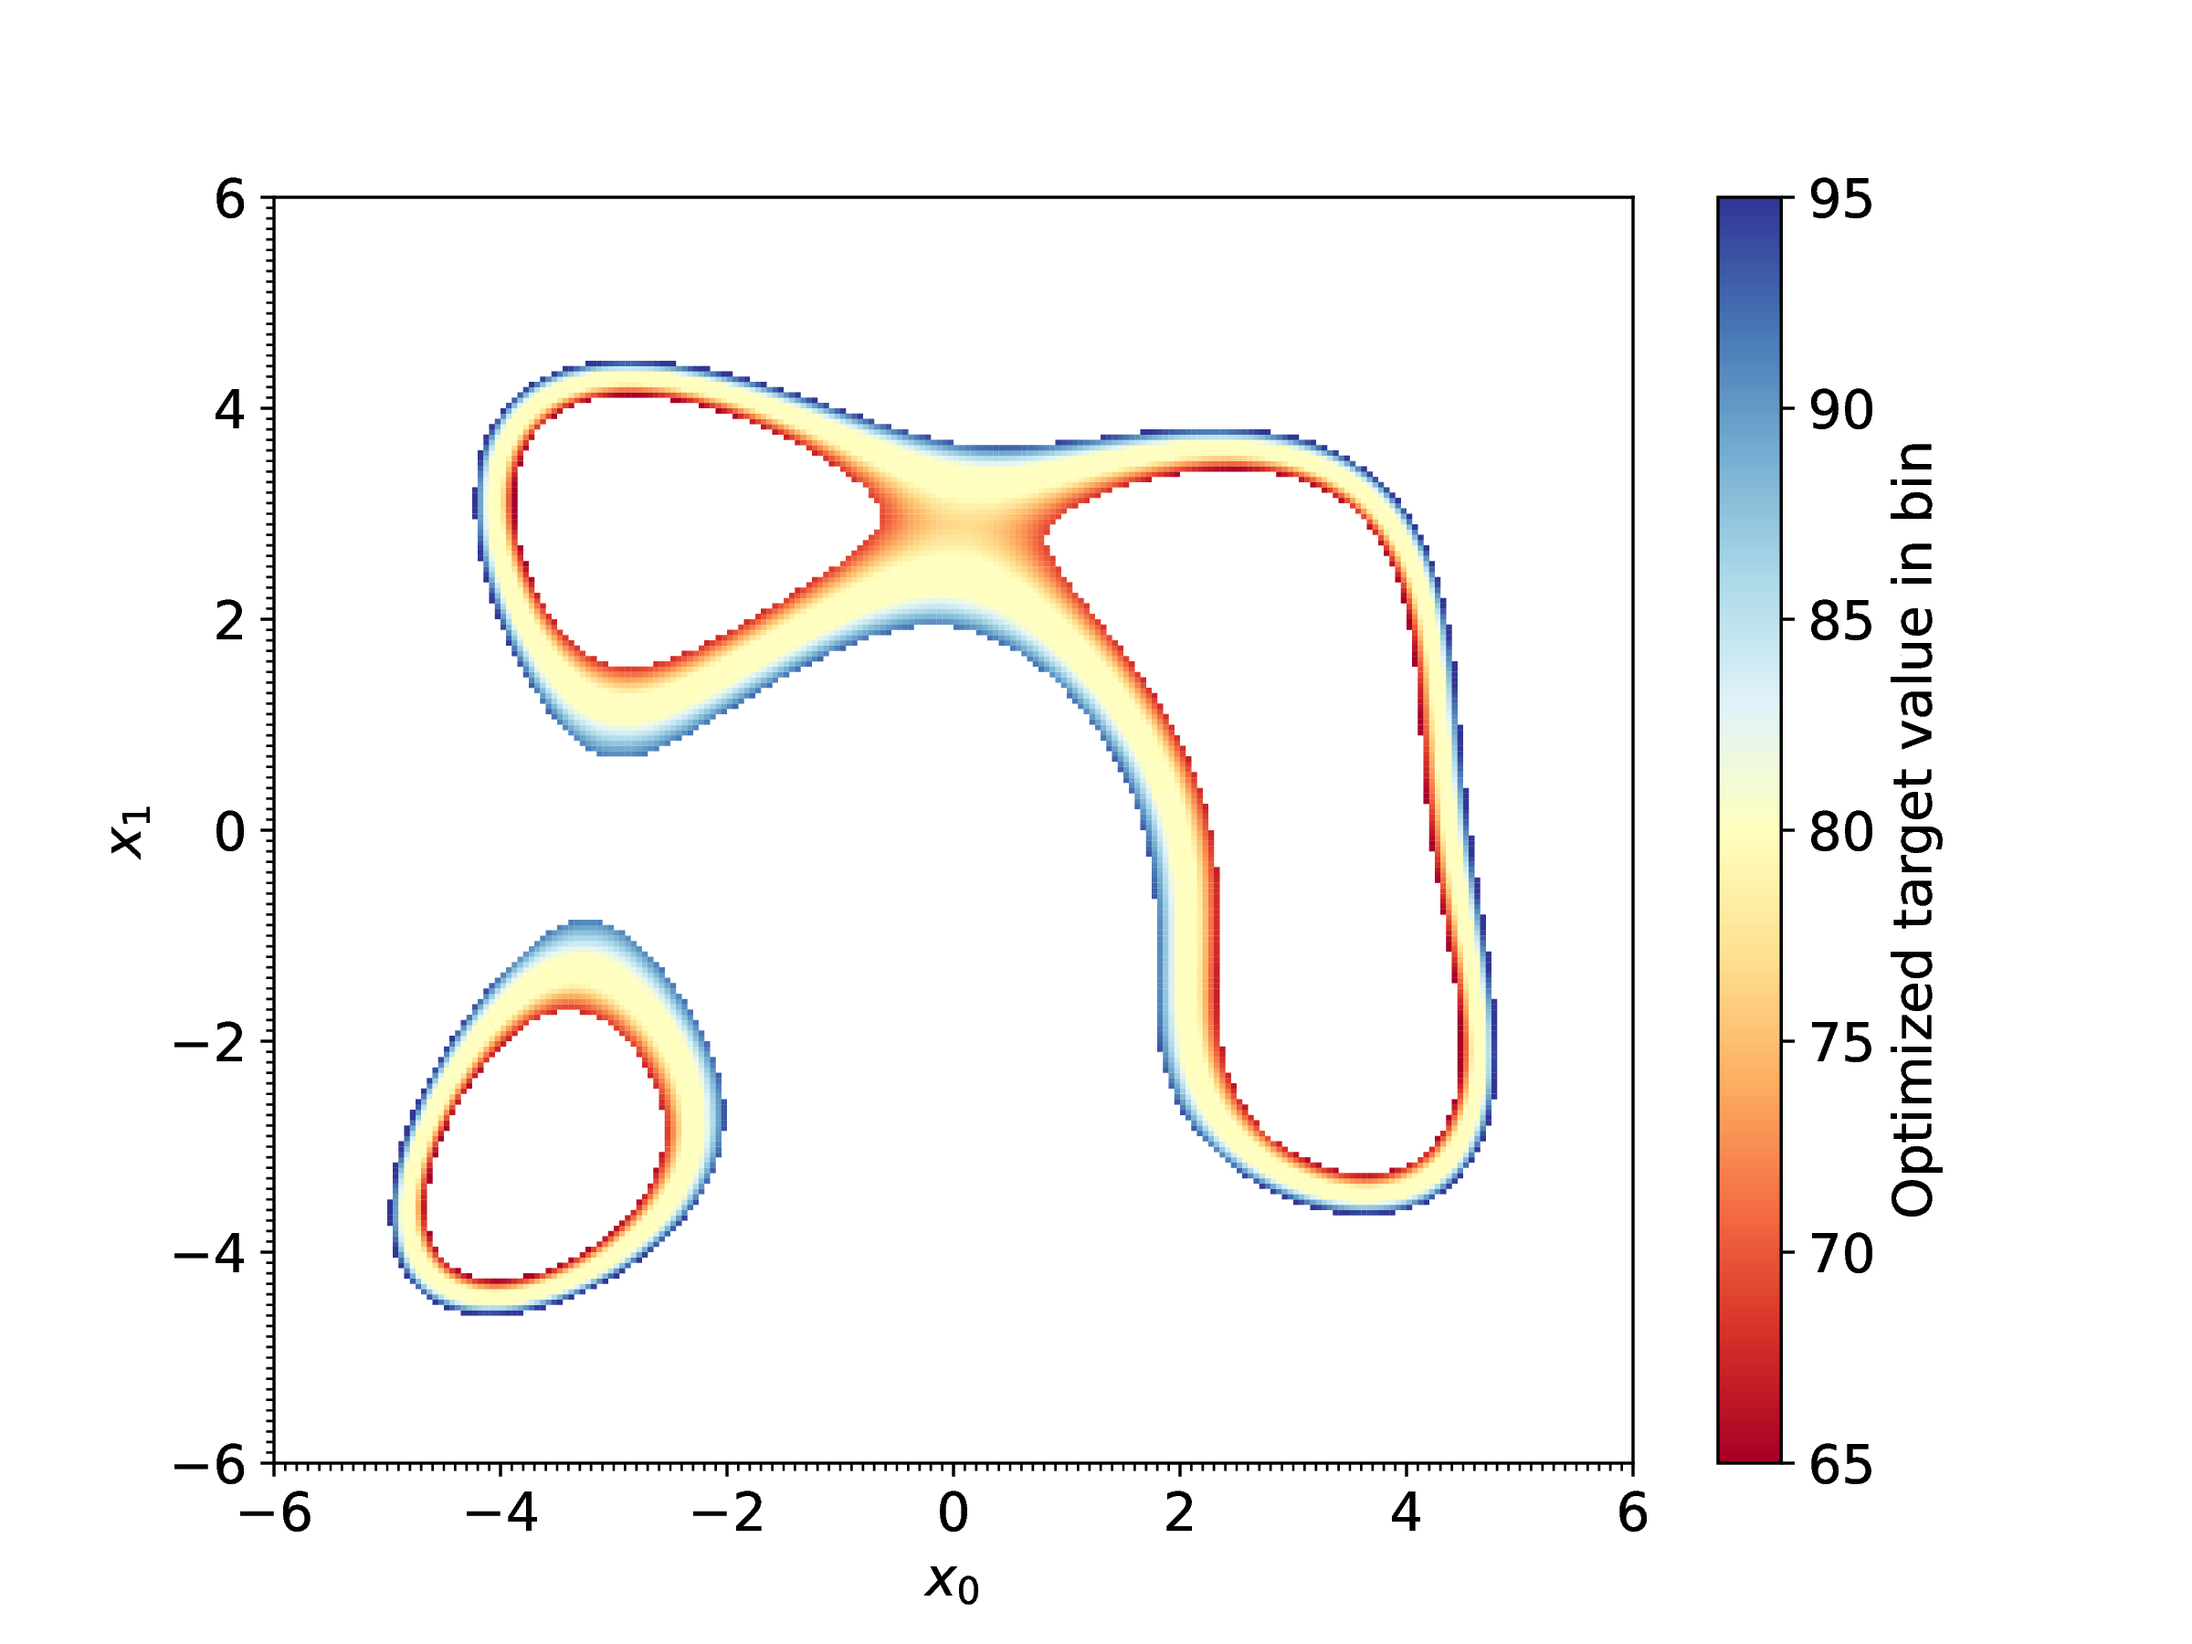
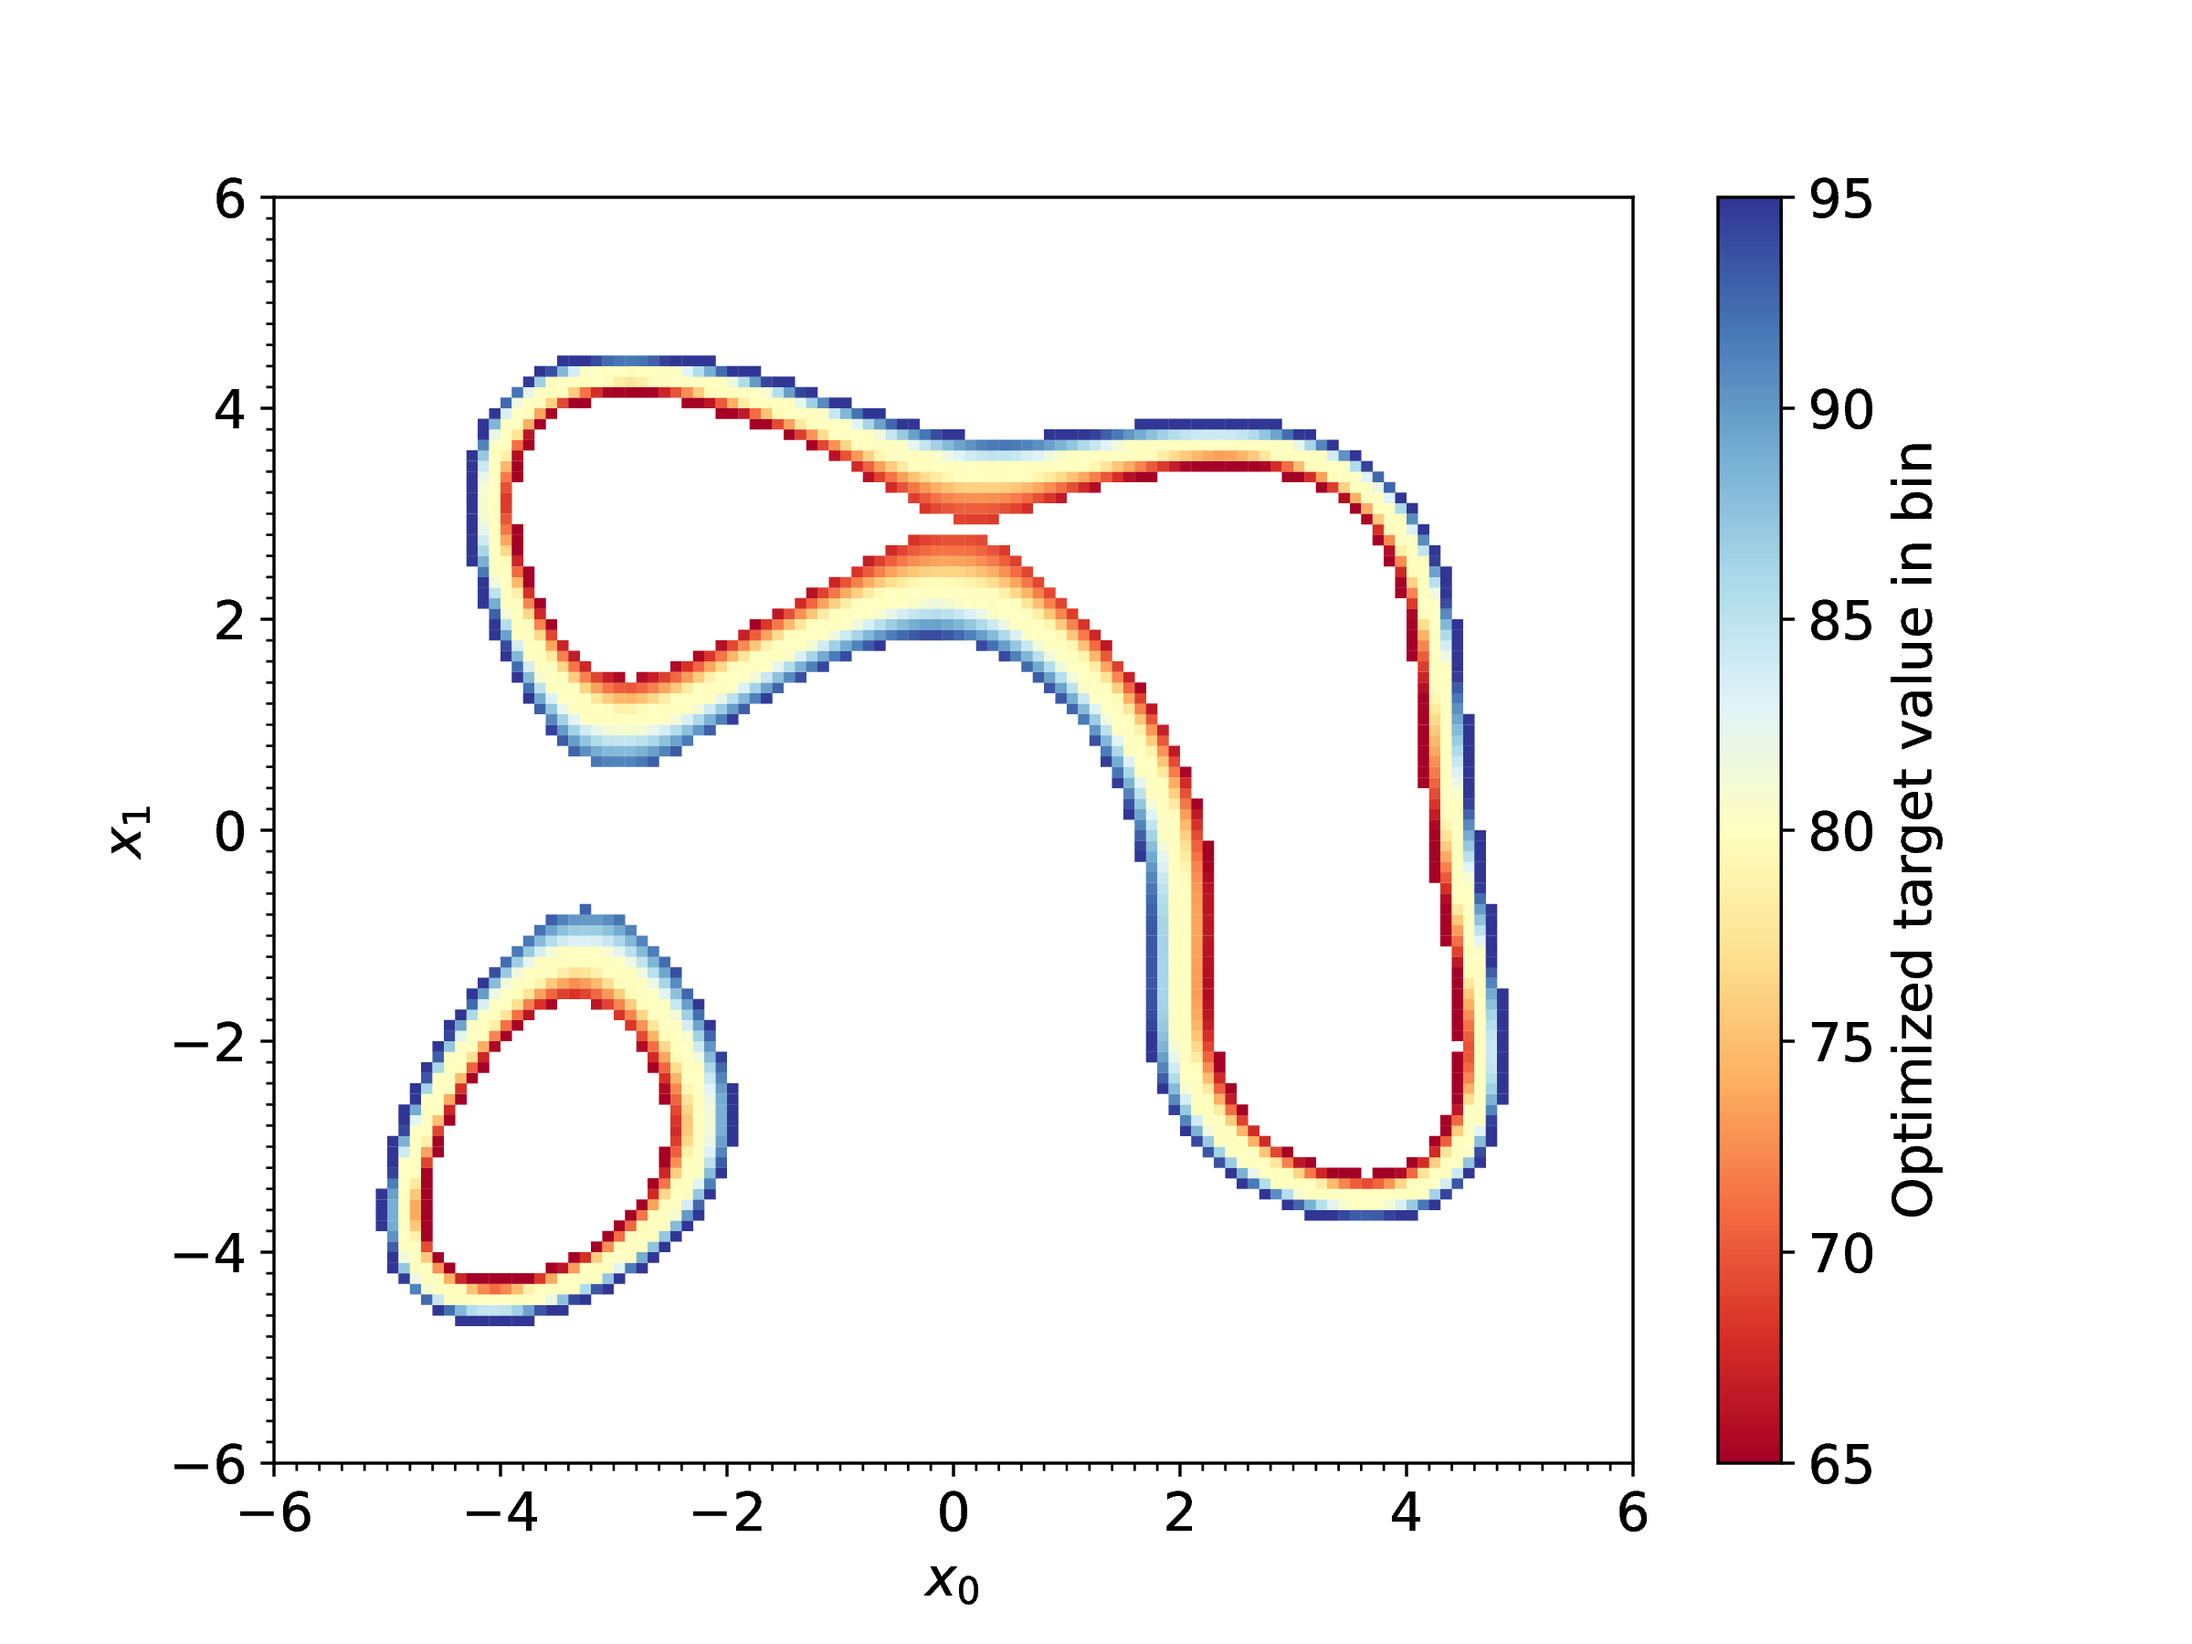
Updated examples and example plots.

Changed region(s): [[0.1875, 0.2178, 0.6875, 0.7467], [0.1562, 0.5289, 0.3438, 0.8089]]

diff --git a/example_bottomup_contour.py b/example_bottomup_contour.py
@@ -7,16 +7,16 @@ comm = MPI.COMM_WORLD
 rank = comm.Get_rank()
 size = comm.Get_size()
 
+
 def target_function(x, *args):
-    """A 2D Himmelblau function in (x0,x1) plus a quadratic penalty in x2"""
-    func = 0
-    func += (x[0]**2 + x[1] - 11.)**2 + (x[0] + x[1]**2 - 7.)**2
-    func += x[2]**2
+    # """A 2D Himmelblau function in (x0,x1) with a scaling factor x2"""
+    func = ((x[0]**2 + x[1] - 11.)**2 + (x[0] + x[1]**2 - 7.)**2) * x[2]
     return func
 
 
+contour_central_val = 80.
 def guide_function(x, y, *args):
-    contour_chi2 = (y - 80.)**2 / 10**2
+    contour_chi2 = (y - contour_central_val)**2 / 10**2
     return contour_chi2
 
 
@@ -30,7 +30,8 @@ def bin_check_function(bin_result, x_points, y_points):
 
 if __name__ == "__main__":
 
-    binning_tuples = [[-6, 6, 240], [-6, 6, 240], [-3, 3, 1]]
+    # binning_tuples = [[-6, 6, 120], [-6, 6, 120], [0.99, 1.01, 1]]
+    binning_tuples = [[-6, 6, 120], [-6, 6, 120], [0.5, 2.0, 1]]
 
     binned_opt = BinMinBottomUp(
         target_function,
@@ -43,7 +44,7 @@ if __name__ == "__main__":
         sampler="latinhypercube",
         optimizer="minimize",
         optimizer_kwargs={
-            "tol": 1e-6,
+            "tol": 1e-9,
             "method": "L-BFGS-B",
         },
         sampled_parameters=(),
@@ -98,10 +99,7 @@ if __name__ == "__main__":
 
         plt.figure(figsize=(8, 6))
         mesh = plt.pcolormesh(bin_limits_per_dim[0], bin_limits_per_dim[1], grid_values, 
-                              # cmap='viridis', norm=LogNorm(vmin=1e0, vmax=2e3),
-                              # cmap='viridis', vmin=0, vmax=200,
-                              # cmap='berlin', vmin=65, vmax=95,
-                              cmap='RdYlBu', vmin=65, vmax=95,
+                              cmap='RdYlBu', vmin=contour_central_val-15., vmax=contour_central_val+15,
                               edgecolors='none', shading='flat')
         plt.colorbar(mesh, label='Optimized target value in bin')
         plt.xlabel(f'$x_{target_dims[0]}$')

diff --git a/example_bottomup.py b/example_bottomup.py
@@ -7,18 +7,17 @@ comm = MPI.COMM_WORLD
 rank = comm.Get_rank()
 size = comm.Get_size()
 
+
 def target_function(x, *args):
-    """A 2D Himmelblau function in (x0,x1) plus a quadratic penalty in x2"""
-    func = 0
-    func += (x[0]**2 + x[1] - 11.)**2 + (x[0] + x[1]**2 - 7.)**2
-    func += x[2]**2
+    # """A 2D Himmelblau function in (x0,x1) with x2 representing a shift of x1"""
+    func = (x[0]**2 + x[1] + x[2] - 11.)**2 + (x[0] + (x[1] + x[2])**2 - 7.)**2
     return func
 
 
 def bin_check_function(bin_result, x_points, y_points):
     bin_accepted = False
     target_opt = bin_result.fun
-    if target_opt < 50.0:
+    if target_opt < 30.0:
         bin_accepted = True
     return bin_accepted
 
@@ -40,7 +39,7 @@ def set_eval_points(bin_index_tuple, bounds):
 
 if __name__ == "__main__":
 
-    binning_tuples = [[-6, 6, 120], [-6, 6, 120], [-3, 3, 1]]
+    binning_tuples = [[-6, 6, 120], [-6, 6, 120], [-0.5, 0.5, 2]]
 
     binned_opt = BinMinBottomUp(
         target_function,
@@ -53,7 +52,7 @@ if __name__ == "__main__":
         sampler="latinhypercube",
         optimizer="minimize",
         optimizer_kwargs={
-            "tol": 1e-6,
+            "tol": 1e-9,
             "method": "L-BFGS-B",
         },
         sampled_parameters=(),
@@ -129,7 +128,7 @@ if __name__ == "__main__":
 
         plt.figure(figsize=(8, 6))
         mesh = plt.pcolormesh(bin_limits_per_dim[0], bin_limits_per_dim[1], grid_values, 
-                              cmap='viridis', vmin=0, vmax=50,
+                              cmap='viridis', vmin=0, vmax=30,
                               edgecolors='none', shading='flat')
         plt.colorbar(mesh, label='Optimized target value in bin')
         plt.xlabel(f'$x_{target_dims[0]}$')

diff --git a/example_bottomup_contour_sampling.py b/example_bottomup_contour_sampling.py
@@ -42,7 +42,7 @@ if __name__ == "__main__":
         sampler="latinhypercube",
         optimizer="minimize",
         optimizer_kwargs={
-            "tol": 1e-6,
+            "tol": 1e-9,
             "method": "L-BFGS-B",
         },
         sampled_parameters=(0,1),
